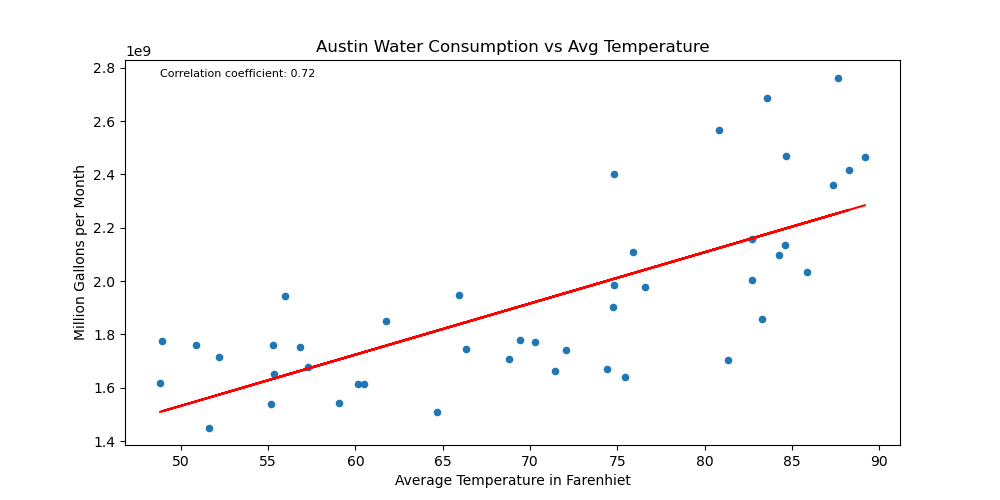
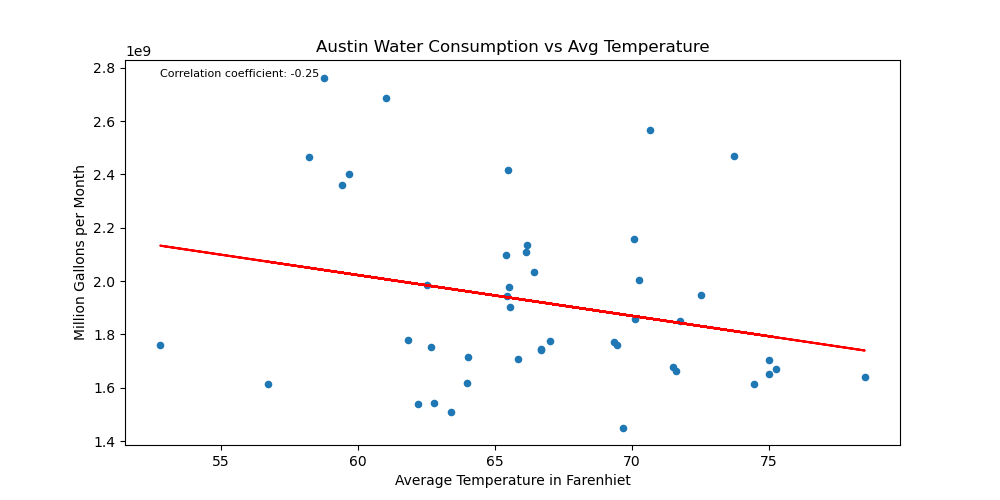
Added Humidity variation

diff --git a/README.md b/README.md
@@ -32,15 +32,21 @@ Everyone: Presentation
 
 
 #### **Research question 1:**
-Is there a relationship between average monthly water usage in Austin and temperature variation (2013-2017 data)?
+Is there a relationship between average monthly water usage in Austin and weather variation like  temperature and humidity (2013-2017 data)?
 ##### **Results:**
-Calculations results: Correlation coefficient: 0.72 , pvalue: 2.8001668828740518e-08
+Calculations results: Correlation coefficient: 0.72 , pvalue: 2.8001668828740518e-08 for temperature vs water consumed
+                      Correlation coefficient: -0.25 , pvalue: 0.09610620068416795 for humidity vs water consumed 
 
 Based on the analysis and calculation of four years of data, as well as the scatter plots with regression lines generated using this data, we found a strong positive correlation (Correlation coefficient: 0.72) between average temperature and monthly water consumption. This indicates that as the average temperature increases, the monthly water consumption tends to increase as well.
 
 Additionally, the extremely low p-value (2.8001668828740518e-08) suggests strong evidence against the null hypothesis. Therefore, we reject the null hypothesis and accept the alternative hypothesis. The observed correlation is statistically significant.
 
 Box plot analysis shows that median water consumption tends to increase as the temperature ranges become higher, indicating a positive relationship between temperature and water consumption.
+
+Correlation coefficient: -0.25 , pvalue: 0.09610620068416795 for humidity vs water consumed
+
+The p-value of 0.09610620068416795 suggests that there is not enough evidence to reject the null hypothesis. The null hypothesis states that there is no correlation between water usage and humidity level .We found very week negative correlation (-.25 )
+
 
 ##### **Conclusion:**
 Based on the analysis, we can conclude that as the average temperature rises, we can expect an increase in monthly water consumption. This relationship is unlikely to be a coincidence.
